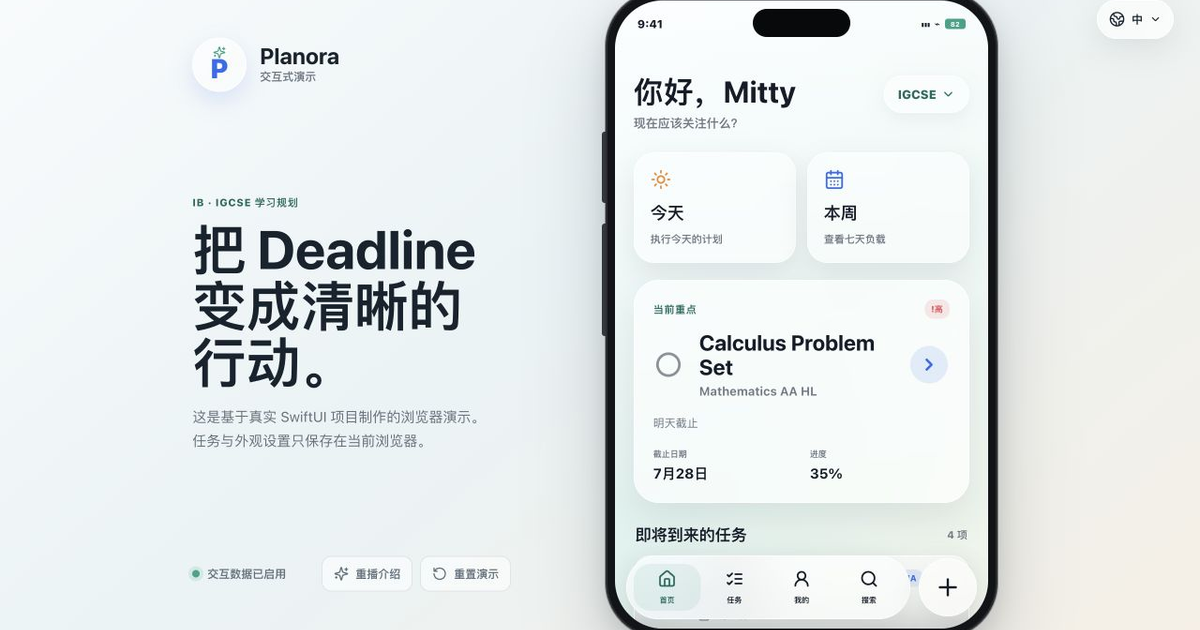
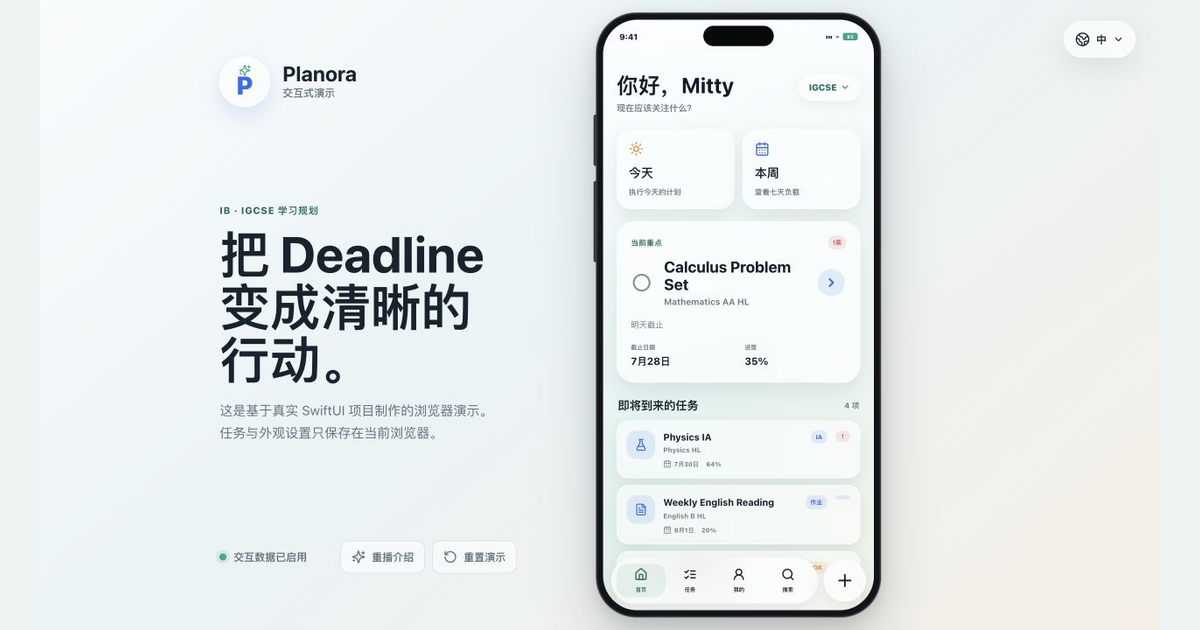
Preserve phone proportions in web demo

diff --git a/web-demo/app/globals.css b/web-demo/app/globals.css
@@ -356,15 +356,17 @@ textarea:focus-visible,
 }
 
 .device-stage {
-  display: grid;
-  place-items: center;
+  position: relative;
+  width: var(--device-stage-width, 329px);
+  height: var(--device-stage-height, 697px);
+  flex: 0 0 auto;
 }
 
 .device {
-  position: relative;
-  width: min(420px, calc(100vw - 32px));
-  height: min(890px, calc(100svh - 28px));
-  min-height: min(690px, calc(100svh - 28px));
+  position: absolute;
+  inset: 0 auto auto 0;
+  width: 422px;
+  height: 894px;
   padding: 10px;
   border: 1px solid rgb(255 255 255 / 0.5);
   border-radius: 60px;
@@ -373,6 +375,8 @@ textarea:focus-visible,
     0 38px 80px rgb(37 54 62 / 0.22),
     0 8px 24px rgb(37 54 62 / 0.14),
     inset 0 0 0 2px #2a2d31;
+  transform: scale(var(--device-scale, 0.78));
+  transform-origin: top left;
 }
 
 .device::before,
@@ -2173,53 +2177,74 @@ textarea:focus-visible,
 
 @media (max-width: 820px) {
   .showcase {
-    display: block;
+    display: flex;
+    flex-direction: column;
+    align-items: center;
+    justify-content: flex-start;
     min-height: 100svh;
-    padding: 0;
-    background: var(--phone-bg);
+    gap: 20px;
+    padding: 22px 14px 32px;
+    overflow-x: hidden;
   }
 
   .showcase-context {
+    display: grid;
+    align-self: center;
+    width: min(100%, 520px);
+    max-width: none;
+    gap: 18px;
+    padding: 0 4px;
+  }
+
+  .showcase-brand .logo-mark {
+    width: 50px;
+    height: 50px;
+  }
+
+  .showcase-brand .logo-mark span {
+    font-size: 25px;
+  }
+
+  .showcase-brand strong {
+    font-size: 22px;
+  }
+
+  .showcase-copy {
+    margin: 0;
+  }
+
+  .showcase-copy h1 {
+    max-width: 340px;
+    margin: 8px 0 0;
+    font-size: 34px;
+  }
+
+  .showcase-copy > p:last-child,
+  .showcase-status > span {
     display: none;
+  }
+
+  .showcase-status {
+    justify-content: flex-start;
+  }
+
+  .showcase-actions {
+    width: 100%;
+  }
+
+  .showcase-status button {
+    flex: 1;
+    justify-content: center;
   }
 
   .site-language-menu {
     display: none;
-  }
-
-  .device-stage,
-  .device {
-    width: 100%;
-    height: 100svh;
-    min-height: 100svh;
-  }
-
-  .device {
-    padding: 0;
-    border: 0;
-    border-radius: 0;
-    background: transparent;
-    box-shadow: none;
-  }
-
-  .device::before,
-  .device::after,
-  .device-speaker {
-    display: none;
-  }
-
-  .device-screen {
-    border-radius: 0;
   }
 }
 
 @media (max-height: 760px) and (min-width: 821px) {
   .showcase {
     padding-block: 14px;
-  }
-
-  .device {
-    min-height: min(650px, calc(100svh - 28px));
   }
 
   .showcase-context {

diff --git a/web-demo/app/planora-demo.tsx b/web-demo/app/planora-demo.tsx
@@ -43,6 +43,7 @@ import {
   useMemo,
   useRef,
   useState,
+  type CSSProperties,
 } from "react";
 import {
   browserLocale,
@@ -114,6 +115,9 @@ const STORAGE_LOCALE = "planora.demo.locale.v1";
 const STORAGE_CURRICULUM = "planora.demo.curriculum.v1";
 const STORAGE_INTRO = "planora.demo.intro.v1";
 const dayMs = 86_400_000;
+const deviceWidth = 422;
+const deviceHeight = 894;
+const defaultDeviceScale = 0.78;
 
 const LocaleContext = createContext<DemoLocale>("zh-Hans");
 
@@ -358,6 +362,7 @@ export function PlanoraDemo() {
   const [curriculum, setCurriculum] = useState<Curriculum>("igcse");
   const [introComplete, setIntroComplete] = useState(false);
   const [hydrated, setHydrated] = useState(false);
+  const [deviceScale, setDeviceScale] = useState(defaultDeviceScale);
 
   useEffect(() => {
     const frame = window.requestAnimationFrame(() => {
@@ -394,6 +399,28 @@ export function PlanoraDemo() {
     });
 
     return () => window.cancelAnimationFrame(frame);
+  }, []);
+
+  useEffect(() => {
+    function updateDeviceScale() {
+      const narrowLayout = window.innerWidth <= 820;
+      const availableWidth = narrowLayout
+        ? Math.max(280, window.innerWidth - 28)
+        : 440;
+      const availableHeight = narrowLayout
+        ? Number.POSITIVE_INFINITY
+        : Math.max(560, window.innerHeight - 28);
+      const nextScale = Math.min(
+        1,
+        availableWidth / deviceWidth,
+        availableHeight / deviceHeight,
+      );
+      setDeviceScale(Math.max(0.62, nextScale));
+    }
+
+    updateDeviceScale();
+    window.addEventListener("resize", updateDeviceScale, { passive: true });
+    return () => window.removeEventListener("resize", updateDeviceScale);
   }, []);
 
   useEffect(() => {
@@ -450,6 +477,11 @@ export function PlanoraDemo() {
     screen.kind === "task"
       ? tasks.find((task) => task.id === screen.taskId)
       : undefined;
+  const deviceStageStyle = {
+    "--device-scale": deviceScale,
+    "--device-stage-width": `${deviceWidth * deviceScale}px`,
+    "--device-stage-height": `${deviceHeight * deviceScale}px`,
+  } as CSSProperties;
 
   return (
     <LocaleContext.Provider value={locale}>
@@ -508,6 +540,7 @@ export function PlanoraDemo() {
         <section
           className="device-stage"
           aria-label="Planora App interactive demo"
+          style={deviceStageStyle}
         >
           <div className="device">
             <div className="device-speaker" aria-hidden="true" />
